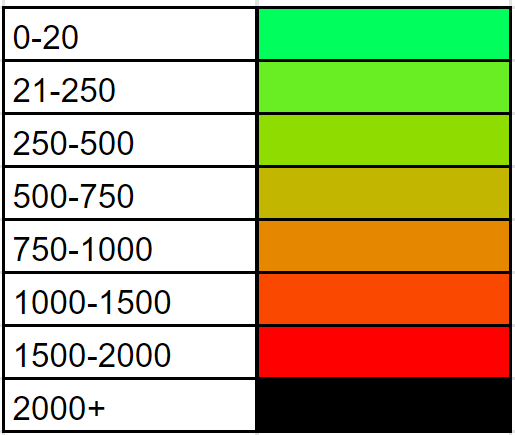
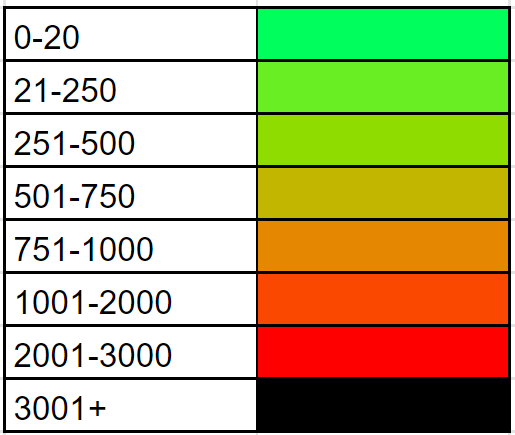
updated development maps and heatmap code

Changed region(s): [[0.0, 0.0, 0.3417, 0.9862], [0.9631, 0.0, 0.9942, 0.8667]]

diff --git a/Heatmaps.py b/Heatmaps.py
@@ -3,11 +3,13 @@ import Upland.plotting as plotting
 import os
 import sys
 from datetime import date
+import xlsxwriter
 
+today = date.today()
 
 homedir = os.path.expanduser('~')
 
-headers = {'user-agent': 'HeatMaps/2.0'}
+headers = {'user-agent': 'LovelyMaps/1.0'}
 
 city = sys.argv[1]
 
@@ -27,100 +29,139 @@ keyPositions = {
   "New Orleans": "BottomRight"
   }
 
+neighbourhoods = upland.getNeighbourhood(headers, city)
 neighbourhoodsProperties = upland.getNeighbourhoodProperties(headers, city)
+
+workbook = xlsxwriter.Workbook(homedir + '/maps/HeatmapData/' + city + ' ' + today.strftime('%d-%b') + '.xlsx')
+worksheet = workbook.add_worksheet()
+percentage_format = workbook.add_format()
+percentage_format.set_num_format('0.00%')
+
+worksheet.write(0, 0, 'Neighbourhood Name')
+worksheet.write(0, 1, 'Total Properties')
+worksheet.write(0, 2, 'All Unlocked Properties')
+worksheet.write(0, 3, 'All Minted Properties')
+worksheet.write(0, 4, 'All % Minted')
+worksheet.write(0, 5, 'Non-FSA Properties')
+worksheet.write(0, 6, 'Non-FSA Minted Properties')
+worksheet.write(0, 7, 'Non-FSA % Minted')
+
+for row, neighbourhood in enumerate(neighbourhoods, start=1):
+  worksheet.write(row, 0, neighbourhood['name'])
 
 fillColours = []
 cbfillColours = []
-
-for properties in neighbourhoodsProperties:
-  properties[:] = [x for x in properties if not x['status'] == "Locked"]
-  propsUnlocked = 0
-  for prop in properties:
-    if prop['status'] == "Unlocked":
-      propsUnlocked += 1
-  try:
-    percentUnsold = propsUnlocked/len(properties)
-  except:
-    percentUnsold = None
-
-  if percentUnsold == None:
-    fillColours.append((1, 1, 1))
-    cbfillColours.append((1, 1, 1))
-  elif percentUnsold >= 0.9:
-    fillColours.append((0, 1, 0.364705882352941))
-    cbfillColours.append((0.901960784313726, 0.623529411764706, 0))
-  elif percentUnsold >= 0.8 and percentUnsold < 0.9:
-    fillColours.append((0.411764705882353, 0.933333333333333, 0.137254901960784))
-    cbfillColours.append((0.337254901960784, 0.705882352941177, 0.913725490196078))
-  elif percentUnsold >= 0.6 and percentUnsold < 0.8:
-    fillColours.append((0.56078431372549, 0.866666666666667, 0))
-    cbfillColours.append((0, 0.619607843137255, 0.450980392156863))
-  elif percentUnsold >= 0.4 and percentUnsold < 0.6:
-    fillColours.append((0.764705882352941, 0.713725490196079, 0))
-    cbfillColours.append((0.941176470588235, 0.894117647058824, 0.258823529411765))
-  elif percentUnsold >= 0.2 and percentUnsold < 0.4:
-    fillColours.append((0.901960784313726, 0.529411764705882, 0))
-    cbfillColours.append((0, 0.447058823529412, 0.698039215686275))
-  elif percentUnsold >= 0.1 and percentUnsold < 0.2:
-    fillColours.append((0.984313725490196, 0.282352941176471, 0))
-    cbfillColours.append((0.835294117647059, 0.368627450980392, 0))
-  elif percentUnsold > 0 and percentUnsold < 0.1:
-    fillColours.append((1, 0, 0))
-    cbfillColours.append((0.8, 0.474509803921569, 0.654901960784314))
-  elif percentUnsold == 0:
-    fillColours.append((0, 0, 0))
-    cbfillColours.append((0, 0, 0))
-  else:
-    fillColours.append((0, 0, 0))
-    cbfillColours.append((0, 0, 0))
-
 nonFsaFillColours = []
 cbnonFsaFillColours = []
 
-for properties in neighbourhoodsProperties:
+for row, properties in enumerate(neighbourhoodsProperties, start=1):
   propsUnlocked = 0
-  totalProps = 0
+  propsMinted = 0
+  nonFSAProps = 0
+  nonFSAPropsMinted = 0
   for prop in properties:
-    if prop['status'] == "Unlocked" and prop['labels']['fsa_allow']  == False:
+    if prop['status'] == 'Owned' or prop['status'] == 'For sale':
       propsUnlocked += 1
-    if prop['labels']['fsa_allow'] == False:
-      totalProps += 1
+      propsMinted += 1
+      if prop['labels']['fsa_allow'] == False:
+        nonFSAProps += 1
+        nonFSAPropsMinted += 1
+    if prop['status'] == 'Unlocked':
+      propsUnlocked += 1
+      if prop['labels']['fsa_allow'] == False:
+        nonFSAProps += 1
+        nonFSAPropsMinted += 1
+  try:
+    percentSold = propsMinted/propsUnlocked
+  except:
+    percentSold = None
 
   try:
-    percentUnsold = propsUnlocked/totalProps
+    percentNonFSASold = nonFSAPropsMinted/nonFSAProps
   except:
-    percentUnsold = None
+    percentNonFSASold = None
 
-  if percentUnsold == None:
+  worksheet.write(row, 1, len(properties))
+  worksheet.write(row, 2, propsUnlocked)
+  worksheet.write(row, 3, propsMinted)
+  worksheet.write(row, 4, propsMinted/propsUnlocked, percentage_format)
+  worksheet.write(row, 5, nonFSAProps)
+  worksheet.write(row, 6, nonFSAPropsMinted)
+  worksheet.write(row, 7, nonFSAProps/nonFSAPropsMinted, percentage_format)
+
+  if percentSold == None:
+    fillColours.append((1, 1, 1))
+    cbfillColours.append((1, 1, 1))
+  elif percentSold <= 0.1:
+    fillColours.append((0, 1, 0.364705882352941))
+    cbfillColours.append((0.901960784313726, 0.623529411764706, 0))
+  elif percentSold <= 0.2 and percentSold > 0.1:
+    fillColours.append((0.411764705882353, 0.933333333333333, 0.137254901960784))
+    cbfillColours.append((0.337254901960784, 0.705882352941177, 0.913725490196078))
+  elif percentSold <= 0.4 and percentSold > 0.2:
+    fillColours.append((0.56078431372549, 0.866666666666667, 0))
+    cbfillColours.append((0, 0.619607843137255, 0.450980392156863))
+  elif percentSold <= 0.6 and percentSold > 0.4:
+    fillColours.append((0.764705882352941, 0.713725490196079, 0))
+    cbfillColours.append((0.941176470588235, 0.894117647058824, 0.258823529411765))
+  elif percentSold <= 0.8 and percentSold > 0.6:
+    fillColours.append((0.901960784313726, 0.529411764705882, 0))
+    cbfillColours.append((0, 0.447058823529412, 0.698039215686275))
+  elif percentSold <= 0.9 and percentSold > 0.8:
+    fillColours.append((0.984313725490196, 0.282352941176471, 0))
+    cbfillColours.append((0.835294117647059, 0.368627450980392, 0))
+  elif percentSold < 1 and percentSold > 0.9:
+    fillColours.append((1, 0, 0))
+    cbfillColours.append((0.8, 0.474509803921569, 0.654901960784314))
+  elif percentSold == 1:
+    fillColours.append((0, 0, 0))
+    cbfillColours.append((0, 0, 0))
+  else:
+    fillColours.append((0, 0, 0))
+    cbfillColours.append((0, 0, 0))
+
+  if percentNonFSASold == None:
     nonFsaFillColours.append((1, 1, 1))
     cbnonFsaFillColours.append((1, 1, 1))
-  elif percentUnsold >= 0.9:
+  elif percentNonFSASold >= 0.1:
     nonFsaFillColours.append((0, 1, 0.364705882352941))
     cbnonFsaFillColours.append((0.901960784313726, 0.623529411764706, 0))
-  elif percentUnsold >= 0.8 and percentUnsold < 0.9:
+  elif percentNonFSASold >= 0.2 and percentNonFSASold < 0.1:
     nonFsaFillColours.append((0.411764705882353, 0.933333333333333, 0.137254901960784))
     cbnonFsaFillColours.append((0.337254901960784, 0.705882352941177, 0.913725490196078))
-  elif percentUnsold >= 0.6 and percentUnsold < 0.8:
+  elif percentNonFSASold >= 0.4 and percentNonFSASold < 0.2:
     nonFsaFillColours.append((0.56078431372549, 0.866666666666667, 0))
     cbnonFsaFillColours.append((0, 0.619607843137255, 0.450980392156863))
-  elif percentUnsold >= 0.4 and percentUnsold < 0.6:
+  elif percentNonFSASold >= 0.6 and percentNonFSASold < 0.4:
     nonFsaFillColours.append((0.764705882352941, 0.713725490196079, 0))
     cbnonFsaFillColours.append((0.941176470588235, 0.894117647058824, 0.258823529411765))
-  elif percentUnsold >= 0.2 and percentUnsold < 0.4:
+  elif percentNonFSASold >= 0.8 and percentNonFSASold < 0.6:
     nonFsaFillColours.append((0.901960784313726, 0.529411764705882, 0))
     cbnonFsaFillColours.append((0, 0.447058823529412, 0.698039215686275))
-  elif percentUnsold >= 0.1 and percentUnsold < 0.2:
+  elif percentNonFSASold >= 0.9 and percentNonFSASold < 0.8:
     nonFsaFillColours.append((0.984313725490196, 0.282352941176471, 0))
     cbnonFsaFillColours.append((0.835294117647059, 0.368627450980392, 0))
-  elif percentUnsold > 0 and percentUnsold < 0.1:
+  elif percentNonFSASold > 1 and percentNonFSASold < 0.9:
     nonFsaFillColours.append((1, 0, 0))
     cbnonFsaFillColours.append((0.8, 0.474509803921569, 0.654901960784314))
-  elif percentUnsold == 0:
+  elif percentNonFSASold == 1:
     nonFsaFillColours.append((0, 0, 0))
     cbnonFsaFillColours.append((0, 0, 0))
   else:
     nonFsaFillColours.append((0, 0, 0))
     cbnonFsaFillColours.append((0, 0, 0))
+
+worksheet.write(len(neighbourhoodsProperties)+2, 0, 'Totals')    
+worksheet.write(len(neighbourhoodsProperties)+2, 1, len(properties))
+worksheet.write(len(neighbourhoodsProperties)+2, 2, propsUnlocked)
+worksheet.write(len(neighbourhoodsProperties)+2, 3, propsMinted)
+worksheet.write(len(neighbourhoodsProperties)+2, 4, propsMinted/propsUnlocked, percentage_format)
+worksheet.write(len(neighbourhoodsProperties)+2, 5, nonFSAProps)
+worksheet.write(len(neighbourhoodsProperties)+2, 6, nonFSAPropsMinted)
+worksheet.write(len(neighbourhoodsProperties)+2, 7, nonFSAProps/nonFSAPropsMinted, percentage_format)
+
+workbook.close()
+
 neighbourhoodPolys = upland.getNeighbourhoodPoly(headers, city)
 
 surface = []
@@ -143,8 +184,6 @@ for num, neighbourhoodPoly in enumerate(neighbourhoodPolys):
   plotting.plotObject(canvas[1], mapFactor[1], neighbourhoodPoly, minLat[1], maxLong[1], cbfillColours[num])
   plotting.plotObject(canvas[2], mapFactor[2], neighbourhoodPoly, minLat[2], maxLong[2], nonFsaFillColours[num])
   plotting.plotObject(canvas[3], mapFactor[3], neighbourhoodPoly, minLat[3], maxLong[3], cbnonFsaFillColours[num])
-  
-today = date.today()
 
 for x in range(4):
   if (x % 2) == 0:

diff --git a/DevelopmentHeatmaps.py b/DevelopmentHeatmaps.py
@@ -50,6 +50,7 @@ for properties in neighbourhoodsProperties:
       except:
         pass
       
+  print(propsDeveloped, devScore)
   try:
     percentDeveloped = propsDeveloped/len(properties)
   except:
@@ -95,22 +96,22 @@ for properties in neighbourhoodsProperties:
   elif propsDeveloped <= 20 and propsDeveloped > 5:
     pdfillColours.append((0.411764705882353, 0.933333333333333, 0.137254901960784))
     pdcbfillColours.append((0.337254901960784, 0.705882352941177, 0.913725490196078))
-  elif propsDeveloped <= 40 and propsDeveloped > 20:
+  elif propsDeveloped <= 60 and propsDeveloped > 20:
     pdfillColours.append((0.56078431372549, 0.866666666666667, 0))
     pdcbfillColours.append((0, 0.619607843137255, 0.450980392156863))
-  elif propsDeveloped <= 60 and propsDeveloped > 40:
+  elif propsDeveloped <= 100 and propsDeveloped > 60:
     pdfillColours.append((0.764705882352941, 0.713725490196079, 0))
     pdcbfillColours.append((0.941176470588235, 0.894117647058824, 0.258823529411765))
-  elif propsDeveloped <= 80 and propsDeveloped > 60:
+  elif propsDeveloped <= 200 and propsDeveloped > 100:
     pdfillColours.append((0.901960784313726, 0.529411764705882, 0))
     pdcbfillColours.append((0, 0.447058823529412, 0.698039215686275))
-  elif propsDeveloped <= 100 and propsDeveloped > 80:
+  elif propsDeveloped <= 400 and propsDeveloped > 200:
     pdfillColours.append((0.984313725490196, 0.282352941176471, 0))
     pdcbfillColours.append((0.835294117647059, 0.368627450980392, 0))
-  elif propsDeveloped <= 150 and propsDeveloped > 100:
+  elif propsDeveloped <= 600 and propsDeveloped > 400:
     pdfillColours.append((1, 0, 0))
     pdcbfillColours.append((0.8, 0.474509803921569, 0.654901960784314))
-  elif propsDeveloped >= 150:
+  elif propsDeveloped >= 600:
     pdfillColours.append((0, 0, 0))
     pdcbfillColours.append((0, 0, 0))
   else:
@@ -135,13 +136,13 @@ for properties in neighbourhoodsProperties:
   elif devScore <= 1000 and devScore > 750:
     dsfillColours.append((0.901960784313726, 0.529411764705882, 0))
     dscbfillColours.append((0, 0.447058823529412, 0.698039215686275))
-  elif devScore <= 1500 and devScore > 1000:
+  elif devScore <= 2000 and devScore > 1000:
     dsfillColours.append((0.984313725490196, 0.282352941176471, 0))
     dscbfillColours.append((0.835294117647059, 0.368627450980392, 0))
-  elif devScore <= 2000 and devScore > 1500:
+  elif devScore <= 3000 and devScore > 2000:
     dsfillColours.append((1, 0, 0))
     dscbfillColours.append((0.8, 0.474509803921569, 0.654901960784314))
-  elif devScore >= 2500:
+  elif devScore >= 3000:
     dsfillColours.append((0, 0, 0))
     dscbfillColours.append((0, 0, 0))
   else:
